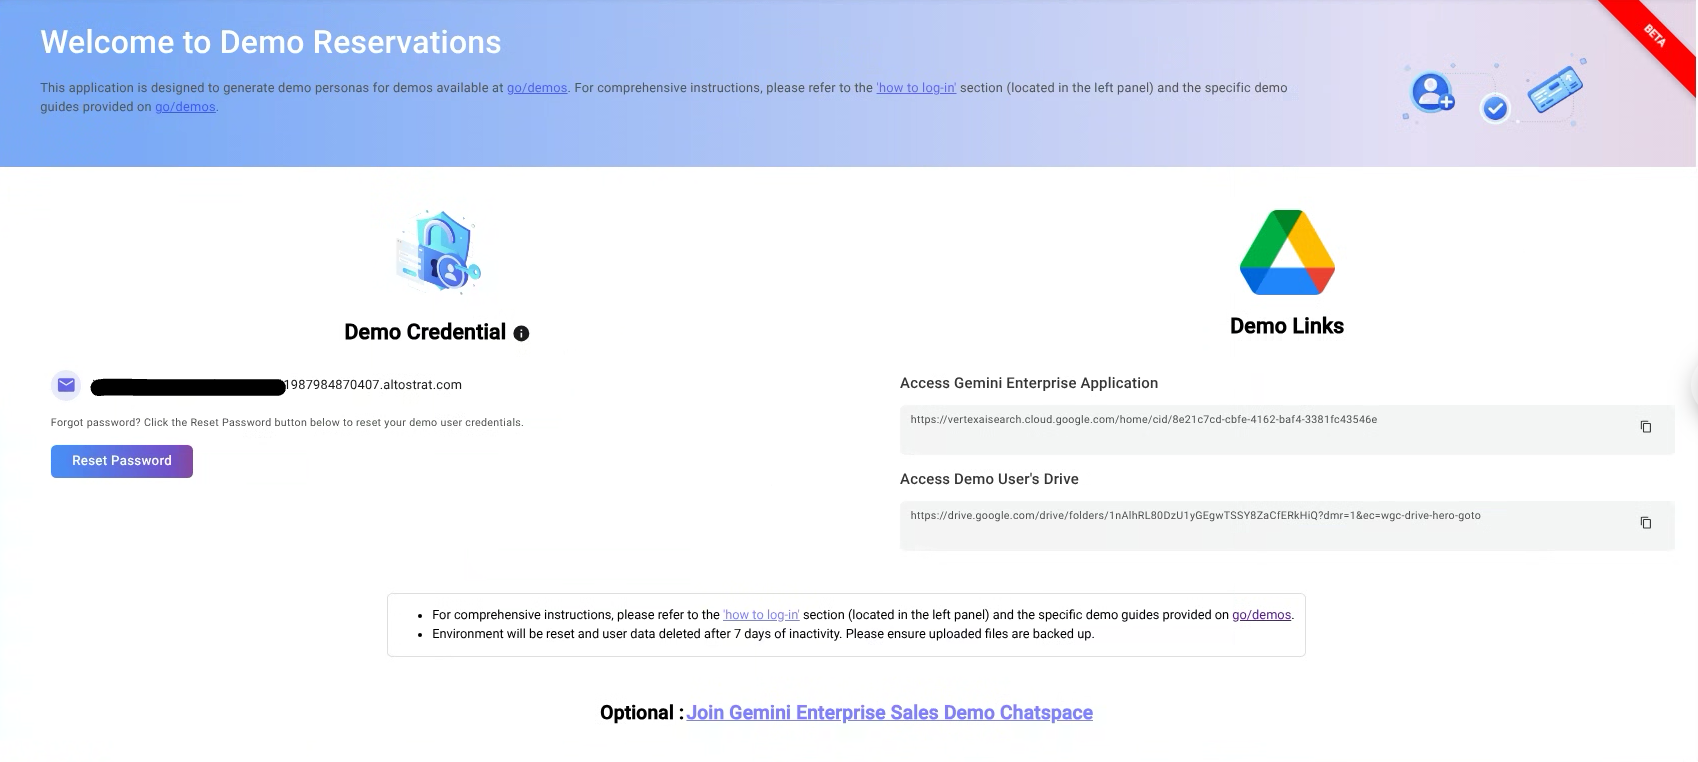
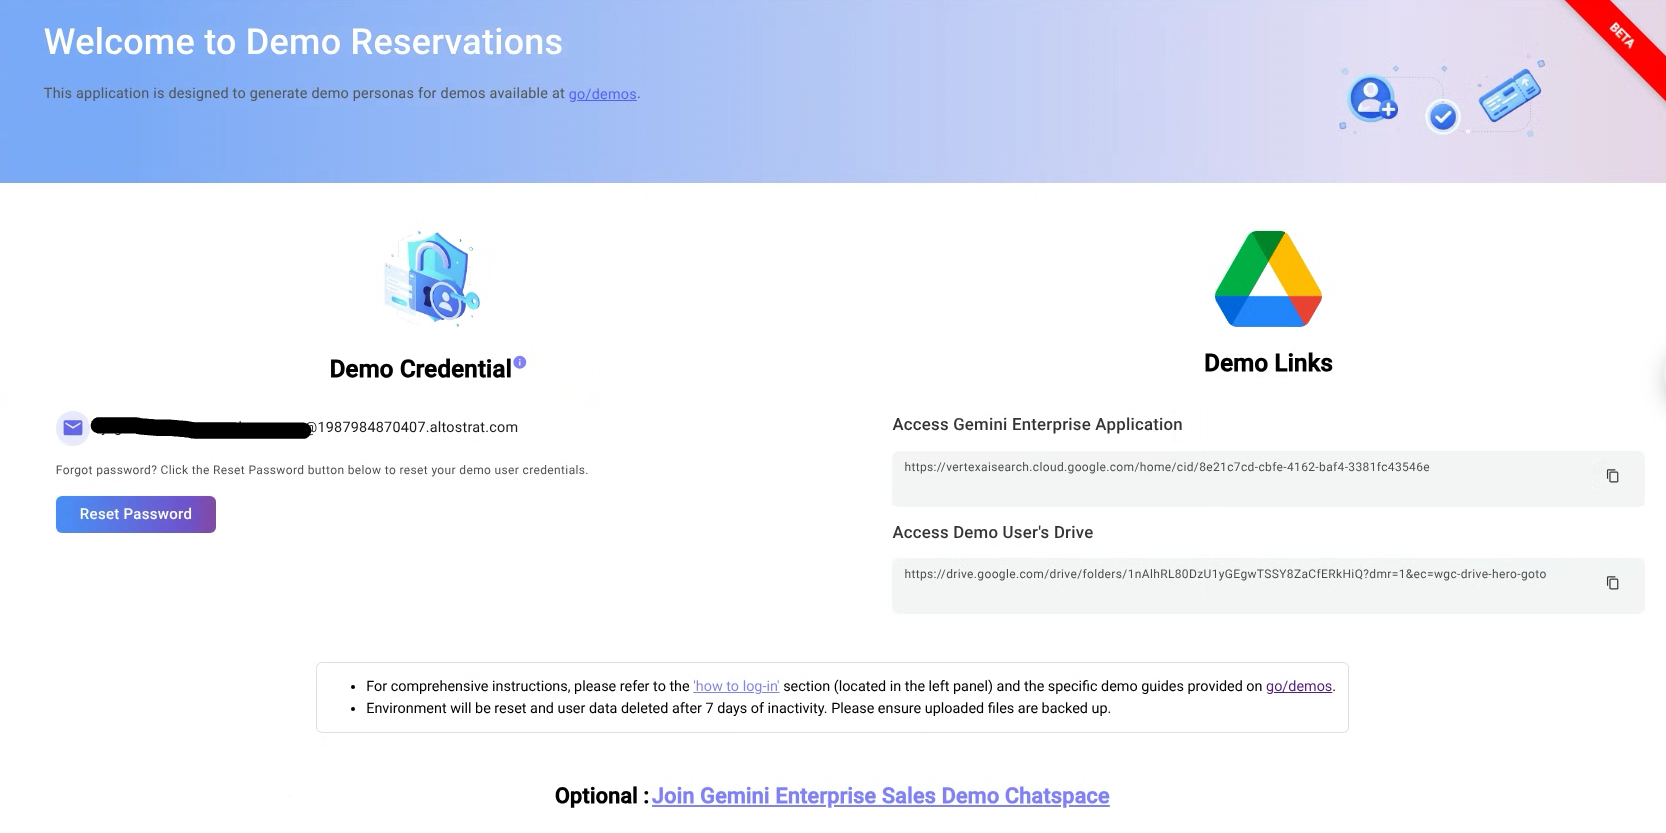
Fixed how to login issues

diff --git a/frontend/src/app/features/user-app-links/user-app-links.component.scss b/frontend/src/app/features/user-app-links/user-app-links.component.scss
@@ -174,15 +174,11 @@
           .info-detail-wrapper {
             position: relative;
             display: inline-block;
-            justify-content: center;
-            align-items: center;
-            margin-left: 0.5rem;
             cursor: pointer;
-            margin-bottom: 1.4rem;
+            margin-bottom: 2rem;
             .info-tooltip-wrapper {
-              justify-content: center;
-              align-items: center;
-              color:  rgba(0, 0, 255, 0.5);
+              font-size: 1.3rem;
+              color: rgba(0, 0, 255, 0.5);
             }
             .tooltip {
               visibility: hidden;
@@ -206,38 +202,45 @@
           }
         }
 
-        .email-wrapper {
-          display: flex;
-          flex-direction: row;
-          gap: 1rem;
-          align-items: center;
-          .circle-icon {
-            background-color: rgb(232, 233, 252);
-            color: rgb(101, 102, 233);
-            border-radius: 50%;
-            padding: 0.5rem;
-            display: inline-flex;
-          }
-          .email-content {
-            color: rgba(0, 0, 0, 0.9);
-            font-family: Roboto;
-            font-size: 1.2rem;
-            font-style: normal;
-            font-weight: 400;
-            letter-spacing: 0.02rem;
-          }
+        .email-password-wrapper {
+          display: block;
+          width: fit-content;
+          flex-direction: column;
+          .email-wrapper {
+            display: flex;
+            flex-direction: row;
+            gap: 1rem;
+            align-items: center;
 
-          .visibility-icon {
-            color: rgb(101, 102, 233);
-            padding: 0.5rem;
-            display: inline-flex;
-            &:hover {
-              background-color: rgb(0, 0, 0, 0.1);
-              cursor: pointer;
+            .circle-icon {
+              background-color: rgb(232, 233, 252);
+              color: rgb(101, 102, 233);
               border-radius: 50%;
+              padding: 0.5rem;
+              display: inline-flex;
+            }
+            .email-content {
+              color: rgba(0, 0, 0, 0.9);
+              font-family: Roboto;
+              font-size: 1.2rem;
+              font-style: normal;
+              font-weight: 400;
+              letter-spacing: 0.02rem;
+            }
+
+            .visibility-icon {
+              color: rgb(101, 102, 233);
+              padding: 0.5rem;
+              display: inline-flex;
+              &:hover {
+                background-color: rgb(0, 0, 0, 0.1);
+                cursor: pointer;
+                border-radius: 50%;
+              }
             }
           }
         }
+
         .spacer {
           flex: 1 1 auto;
         }

diff --git a/frontend/src/app/features/user-app-links/user-app-links.component.html b/frontend/src/app/features/user-app-links/user-app-links.component.html
@@ -11,14 +11,6 @@
           rel="noopener noreferrer"
           class="link-wrapper"
           >go/demos</a
-        >. For comprehensive instructions, please refer to the
-        <span class="how-to-login-wrapper" (click)="redirectToHowLogin()"
-          >'how to log-in'</span
-        >
-        section (located in the left panel) and the specific demo guides
-        provided on
-        <a [href]="goDemoUrl" target="_blank" rel="noopener noreferrer"
-          >go/demos</a
         >.
       </p>
     </div>
@@ -48,33 +40,35 @@
             >
           </div>
         </div>
-        <div class="email-wrapper">
-          <mat-icon class="circle-icon">email</mat-icon>
-          <h5 class="email-content">
-            {{ userDetails()!.primary_email }}
-          </h5>
-        </div>
-        @if((userDetails()?.password || '')!==''){
-        <div class="sized-box-password"></div>
-        <div class="email-wrapper">
-          <mat-icon class="circle-icon">lock</mat-icon>
-          @if(showPassword()===true){
-          <h5 class="email-content">
-            {{ userDetails()!.password }}
-          </h5>
-          }@else{
-          <h5 class="email-content">
-            {{ passwordMasked() }}
-          </h5>
+        <div class="email-password-wrapper">
+          <div class="email-wrapper">
+            <mat-icon class="circle-icon">email</mat-icon>
+            <h5 class="email-content">
+              {{ userDetails()!.primary_email }}
+            </h5>
+          </div>
+          @if((userDetails()?.password || '')!==''){
+          <div class="sized-box-password"></div>
+          <div class="email-wrapper">
+            <mat-icon class="circle-icon">lock</mat-icon>
+            @if(showPassword()===true){
+            <h5 class="email-content">
+              {{ userDetails()!.password }}
+            </h5>
+            }@else{
+            <h5 class="email-content">
+              {{ passwordMasked() }}
+            </h5>
+            }
+            <div class="spacer"></div>
+            <mat-icon
+              class="visibility-icon"
+              (click)="updateShowPasswordValue()"
+              >{{ showPassword() ? "visibility_off" : "visibility" }}</mat-icon
+            >
+          </div>
           }
-          <div class="spacer"></div>
-          <mat-icon
-            class="visibility-icon"
-            (click)="updateShowPasswordValue()"
-            >{{ showPassword() ? "visibility_off" : "visibility" }}</mat-icon
-          >
         </div>
-        }
 
         <h5 class="desc-wrapper">
           Forgot password? Click the Reset Password button below to reset your

diff --git a/frontend/src/app/features/new-user/new-user.component.ts b/frontend/src/app/features/new-user/new-user.component.ts
@@ -1,7 +1,10 @@
 import { Component } from '@angular/core';
 import { MatExpansionModule } from '@angular/material/expansion';
 import { MatIconModule } from '@angular/material/icon';
-import { MANAGE_PROFILE_INSTRUCTIONS_URL } from '../../shared/constants/links.contants';
+import {
+  DEMO_PAGE_URL,
+  MANAGE_PROFILE_INSTRUCTIONS_URL,
+} from '../../shared/constants/links.contants';
 import { AppInstructions } from '../../core/models/app-instructions.model';
 
 @Component({
@@ -10,15 +13,18 @@ import { AppInstructions } from '../../core/models/app-instructions.model';
   templateUrl: './new-user.component.html',
   styleUrl: './new-user.component.scss',
 })
-
-
 export class NewUserComponent {
   manageProfileLink = MANAGE_PROFILE_INSTRUCTIONS_URL;
+  demoPageUrl = DEMO_PAGE_URL;
   loginSteps: AppInstructions[] = [
     {
       id: 1,
-      title:
-        'Click on “Launch Live Application” from the demo page on go/demos',
+      title: `Click on “Launch Live Application” from the demo page on <a
+          [href]="${DEMO_PAGE_URL}"
+          target="_blank"
+          rel="noopener noreferrer"
+          >go/demos</a
+        >.`,
       image: ['assets/images/godemosagentspacepage.png'],
       headerText: [],
       footerText: [],

diff --git a/frontend/src/app/features/new-user/new-user.component.html b/frontend/src/app/features/new-user/new-user.component.html
@@ -3,15 +3,21 @@
     This demo user application manages user profiles for multiple demos on
     go/demos.
   </h2>
-  <h4>
-    1. Login to the Application from your Google profile to lookup Gemini
-    Enterprise credentials.
-  </h4>
+  <h4>1. Follow the steps below to log in to the demo.</h4>
   @for(loginData of loginSteps; track loginData.id){
   <mat-accordion class="panel-wrapper">
     <mat-expansion-panel>
       <mat-expansion-panel-header>
+        @if(loginData.id===1){
+        <mat-panel-title class="title">
+          Click on “Launch Live Application” from the demo page on&nbsp;
+          <a [href]="demoPageUrl" target="_blank" rel="noopener noreferrer">
+            go/demos.</a
+          >
+        </mat-panel-title>
+        }@else{
         <mat-panel-title class="title"> {{ loginData.title }} </mat-panel-title>
+        }
       </mat-expansion-panel-header>
       @for(imageData of loginData.image; track $index){
       <img [src]="imageData" [alt]="loginData.title" class="image-wrapper" />
@@ -39,7 +45,7 @@
       <img
         src="assets/images/new_home.png"
         alt="enteremail"
-        class="image-email-page"
+        class="image-wrapper"
       />
     </mat-expansion-panel>
   </mat-accordion>

diff --git a/frontend/src/app/shared/constants/links.contants.ts b/frontend/src/app/shared/constants/links.contants.ts
@@ -7,3 +7,5 @@ export const MANAGE_PROFILE_INSTRUCTIONS_URL =
   'https://support.google.com/chrome/answer/2364824?hl=en&co=GENIE.Platform%3DDesktop';
 export const RELEASE_NOTES_LINK =
   'https://docs.google.com/document/d/1E5SzHiiv2u9yTJClATy-THgycabks0UAXzZ3YAvCKuw/edit?tab=t.0#heading=h.4ok2v1xlp2u5';
+
+  // http://goto.google.com/demos

diff --git a/frontend/src/app/features/new-user/new-user.component.scss b/frontend/src/app/features/new-user/new-user.component.scss
@@ -42,8 +42,9 @@
     .image-wrapper {
       width: 100%;
       height: 30rem;
-      object-fit: contain;
+      object-fit:contain;
       object-position: center;
+      display: block;
     }
   }
 
